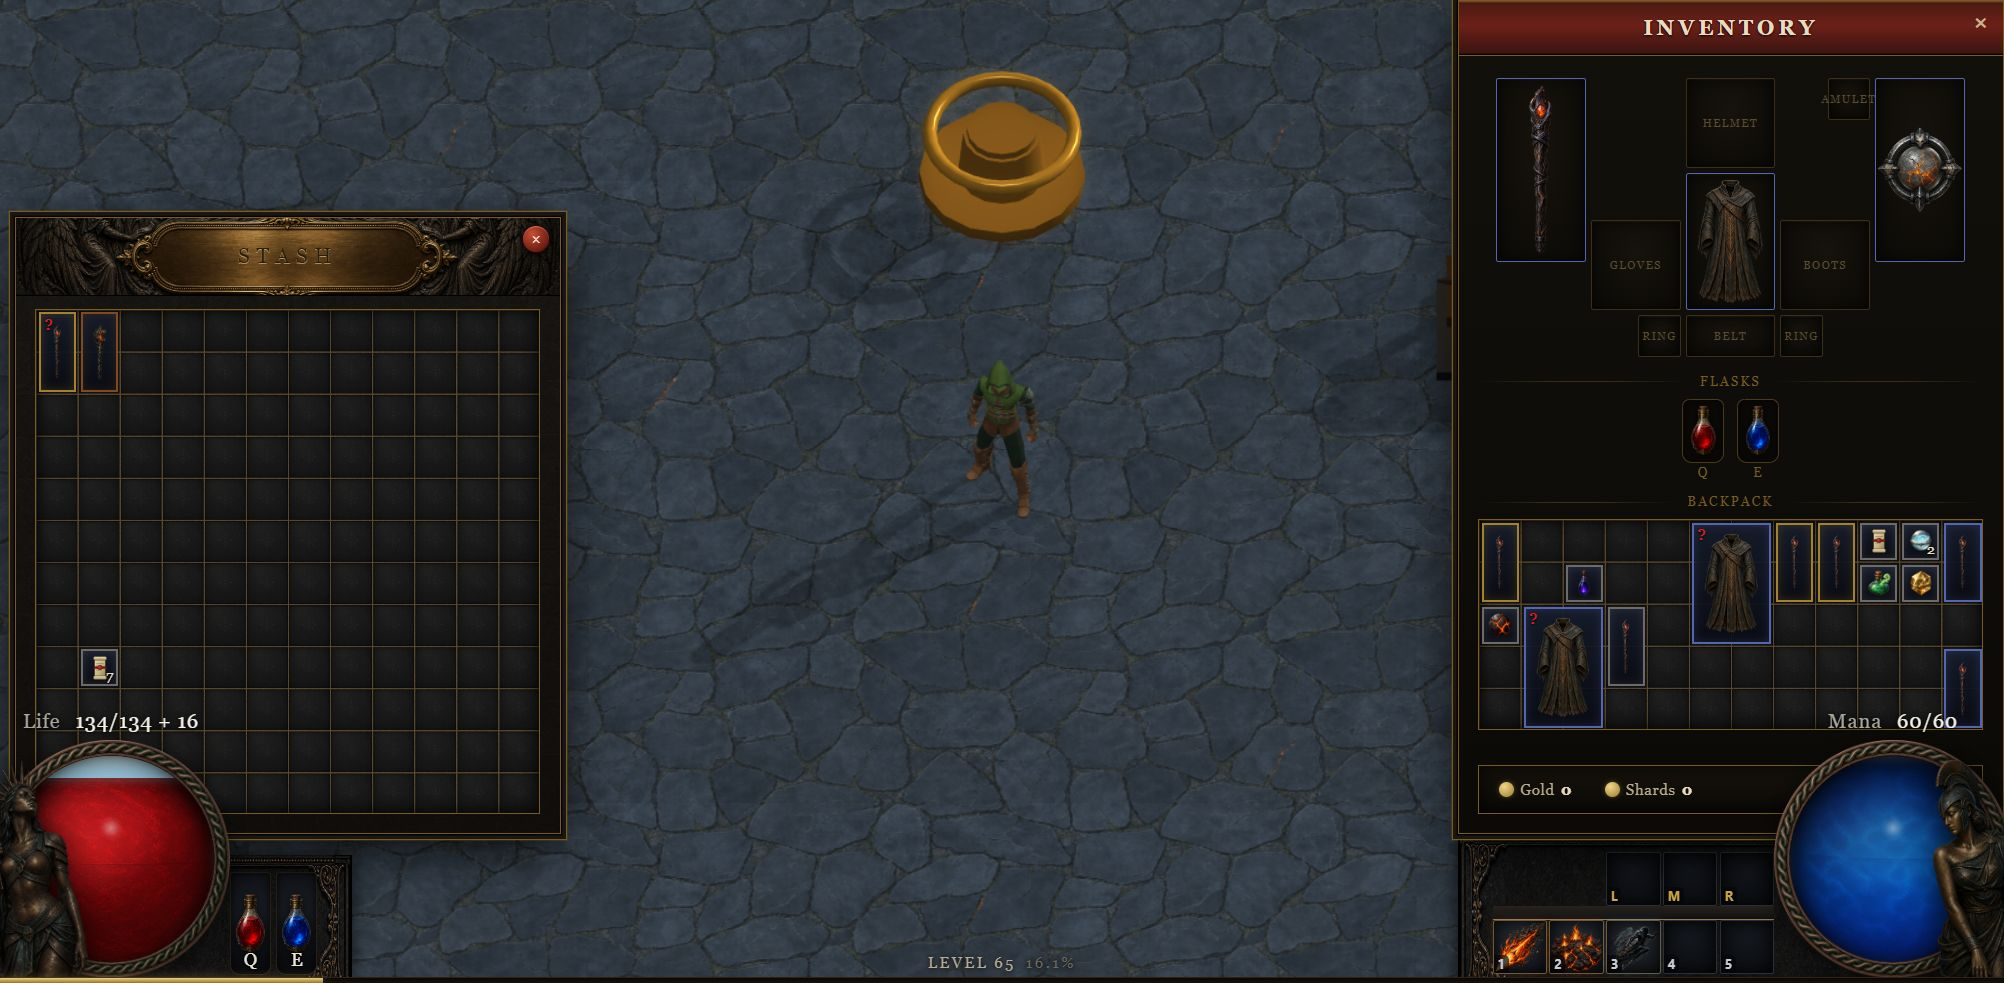
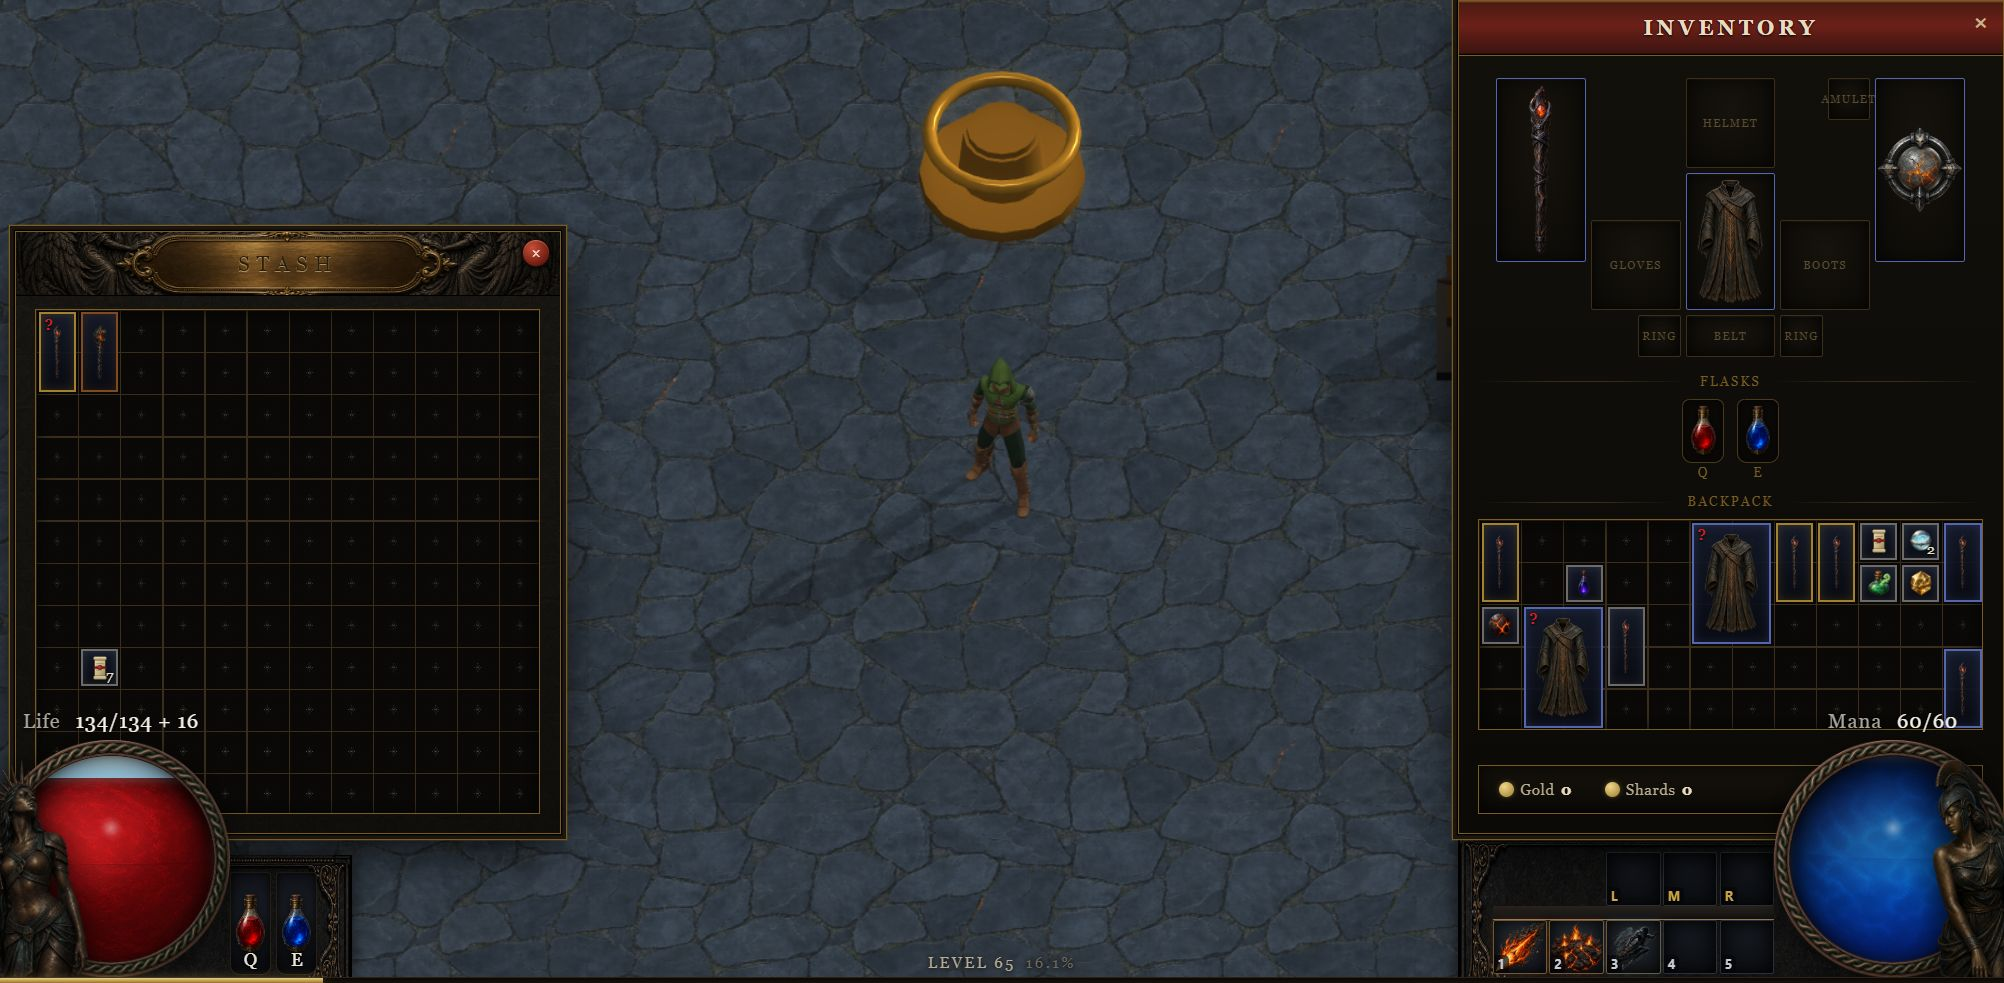
feat(stash): the grid is measured against the real one, pixel by pixel
Sampled poe2-screenshots/stash.png column by column: cell floors sit at
luminance 1, not 8, and the separation reads as a 1px warm line at 1.4% of
the cell rather than a border on every div. The tile drops its baked border
so the CSS lattice is the only line, and the header takes the cartouche art
at 12.8% of pane width with an engraved title.

diff --git a/apps/web/src/hud/InventoryPanel.tsx b/apps/web/src/hud/InventoryPanel.tsx
@@ -48,6 +48,13 @@ export const GOLD = "#c8a44d";
 export const GOLD_DIM = "#7a5c22";
 export const PARCHMENT = "#e8dcc0";
 const MAGIC = "#8aa6ff";
+/**
+ * Grid lattice, sampled off poe2-screenshots/stash.png: a 1px warm brown line
+ * over a cell floor that is nearly black. Reading it back off the reference,
+ * the separation comes from the floor being black rather than from the line
+ * being bright, which is why the tile under this is unlit almost everywhere.
+ */
+const LATTICE = "rgb(58,45,26)";
 
 const U_VW = +(CELL_VW * (54 / 48)).toFixed(3); // 2.363
 const U = `${U_VW}vw`; // equipment paper-doll unit, kept in step with CELL
@@ -358,8 +365,17 @@ export function InventoryPanel({
               // PoE draws the lattice and the faint crest in each empty cell as art,
               // not as borders: one tile repeated is both cheaper than a border per
               // cell and the only way to get the embossed ornament (stash.png).
-              background: "#0a0b0e url(/textures/ui/stash_cell_v2.png)",
-              backgroundSize: `${CELL} ${CELL}`,
+              backgroundColor: "#0a0b0e",
+              // The tile carries the floor and the crest; the lattice is drawn by
+              // gradients on top of it because a 256px tile scaled down to a ~42px
+              // cell turns its own 4px line into two thirds of a blurred pixel,
+              // while the reference's line is a crisp 1px at any cell size.
+              backgroundImage: [
+                `repeating-linear-gradient(to right, ${LATTICE} 0 1px, transparent 1px ${CELL})`,
+                `repeating-linear-gradient(to bottom, ${LATTICE} 0 1px, transparent 1px ${CELL})`,
+                "url(/textures/ui/stash_cell_v4.png)",
+              ].join(","),
+              backgroundSize: `auto, auto, ${CELL} ${CELL}`,
               border: `1px solid ${GOLD_DIM}`,
               boxShadow: "inset 0 0 14px rgba(0,0,0,0.8)",
             }}
@@ -547,7 +563,8 @@ export function InventoryPanel({
           <div
             style={{
               margin: `calc(-1 * ${PANEL_PAD}) calc(-1 * ${PANEL_PAD}) 10px`,
-              height: `calc(${stash.cols} * ${CELL} * 0.156)`,
+              // 12.8% of the pane's width, measured off the reference's band.
+              height: `calc(${stash.cols} * ${CELL} * 0.128)`,
               position: "relative",
               display: "flex", alignItems: "center", justifyContent: "center",
               backgroundImage: "url(/textures/ui/char_header_v1.png)",

diff --git a/devlog/README.md b/devlog/README.md
@@ -180,6 +180,6 @@ The hideout gets storage, quick transfer, and a bench that turns leftovers into 
 <td width="33%"><img src="screenshots/2026-07-26-disenchanting-bench.jpeg" alt="The hideout with the disenchanting bench, an anvil and a glowing ember crucible, standing right of the stash" width="100%"><br><sub><b>The bench eats the leftovers</b> - ctrl-click a magic, rare or unique at the bench and it becomes currency shards, ten to an orb.</sub></td>
 </tr>
 <tr>
-<td width="33%"><img src="screenshots/2026-07-26-stash-cartouche.jpeg" alt="The stash under a gilt cartouche header, its grid lattice drawn as tiled art" width="100%"><br><sub><b>The stash gets its cartouche</b> - a flat red title bar and CSS cell borders, measured against the PoE1 stash, were the two things giving it away.</sub></td>
+<td width="33%"><img src="screenshots/2026-07-26-stash-cartouche.jpeg" alt="The stash under a gilt cartouche header, its grid lattice drawn as tiled art" width="100%"><br><sub><b>The stash gets its cartouche</b> - the real stash was sampled pixel by pixel: cell floors near black at luminance 1, a 1px warm lattice, an engraved crest in every empty square.</sub></td>
 </tr>
 </table>
